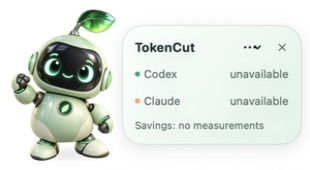
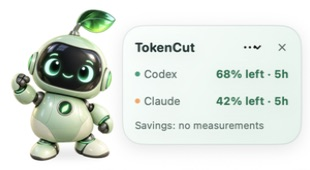
Fix Claude quota timing and show clear percentage windows

Changed region(s): [[0.6968, 0.5588, 0.929, 0.6176], [0.6968, 0.4118, 0.929, 0.4706]]

diff --git a/macos/Sources/TokenCutMenu/Pet.swift b/macos/Sources/TokenCutMenu/Pet.swift
@@ -5,6 +5,11 @@ struct QuotaWindow: Decodable, Identifiable {
     let id, label: String
     let usedPercent, remainingPercent: Double
     let windowMinutes, resetsAt: Double?
+    var shortLabel: String {
+        if windowMinutes == 300 { return "5h" }
+        if windowMinutes == 10080 { return "7d" }
+        return ""
+    }
 }
 struct QuotaProvider: Decodable, Identifiable {
     let provider, name, source, status, message: String
@@ -13,6 +18,17 @@ struct QuotaProvider: Decodable, Identifiable {
     let windows: [QuotaWindow]
     var id: String { provider }
     var tightest: QuotaWindow? { windows.min { $0.remainingPercent < $1.remainingPercent } }
+    var statusLabel: String {
+        if status == "loading" { return "Checking…" }
+        switch issue {
+        case "cli_not_signed_in", "adapter_unavailable": return "Connect"
+        case "cli_missing", "reader_missing": return "Set up"
+        case "no_windows": return "Not reported"
+        case "timeout": return "Retry"
+        case "reset_pending": return "Refreshing…"
+        default: return "Check limits"
+        }
+    }
 }
 struct QuotaEnvelope: Decodable { let providers: [QuotaProvider] }
 
@@ -62,14 +78,14 @@ struct PetView: View {
                             Text(provider == "codex" ? "Codex" : "Claude").foregroundStyle(mutedInk)
                             Spacer(minLength: 4)
                             if let quota = row?.tightest, row?.status == "ok" {
-                                Text("\(quota.remainingPercent.formatted(.number.precision(.fractionLength(0))))% left")
+                                Text("\(quota.remainingPercent.formatted(.number.precision(.fractionLength(0))))% left\(quota.shortLabel.isEmpty ? "" : " · " + quota.shortLabel)")
                                     .foregroundStyle(quota.remainingPercent <= 15 ? .orange : accent).monospacedDigit().bold()
                             } else {
-                                Text(row?.status == "loading" ? "…" : row?.issue == "cli_not_signed_in" ? "CLI not linked" : "unavailable").foregroundStyle(mutedInk)
+                                Text(row?.statusLabel ?? "Checking…").foregroundStyle(mutedInk)
                             }
                         }.font(.system(size: 11)).padding(.vertical, 2)
                     }.buttonStyle(.plain)
-                    .help("Remaining allowance in the most constrained window. Click for all windows and read times.")
+                    .help(row?.status == "ok" ? "Remaining allowance in the most constrained window. 5h: five hours; 7d: weekly. Click for all windows and read times." : row?.message ?? "Checking the account-limit connection.")
                 }
                 Text(savings).font(.system(size: 10)).foregroundStyle(mutedInk).lineLimit(1)
             }.frame(width: 154)
@@ -89,7 +105,7 @@ struct PetView: View {
         .accessibilityElement(children: .contain)
     }
     private var savings: String {
-        if model.error != nil { return "Text measurements unavailable" }
+        if model.error != nil { return "Open savings to reconnect" }
         if model.snapshot?.paused == true { return "Optimization paused" }
         guard let value = model.snapshot?.today?.net else { return "Savings: no measurements" }
         return "Text today: \(value >= 0 ? "↓" : "↑")\(compact(abs(value))) tokens"
@@ -137,6 +153,21 @@ struct QuotaDetails: View {
                     }
                     Text(provider.source).font(.caption2).foregroundStyle(.secondary)
                     if provider.provider == "claude", provider.status == "unavailable" {
+                        if ["cli_not_signed_in", "adapter_unavailable", "cli_missing"].contains(provider.issue ?? "") {
+                            Text("Connect the quota reader once. Your Claude Desktop session stays separate.")
+                                .font(.caption)
+                            HStack {
+                                Text("claude auth login --claudeai")
+                                    .font(.system(.caption, design: .monospaced)).textSelection(.enabled)
+                                Spacer()
+                                Button("Copy") {
+                                    NSPasteboard.general.clearContents()
+                                    NSPasteboard.general.setString("claude auth login --claudeai", forType: .string)
+                                }.help("Copy the Claude subscription sign-in command")
+                            }
+                            Text("Run in Terminal, finish signing in, then click Refresh limits.")
+                                .font(.caption2).foregroundStyle(.secondary)
+                        }
                         Link("View Claude account limits ↗", destination: URL(string: "https://claude.ai/settings/usage")!)
                             .font(.caption)
                     }

diff --git a/tests/test_usage.py b/tests/test_usage.py
@@ -127,6 +127,27 @@ def test_passed_reset_is_not_assumed_to_restore_limit():
     await_idle(collector)
     row = collector.snapshot()[0]
     assert row["status"] == "unavailable" and row["windows"] == []
+    assert row["issue"] == "reset_pending"
+
+
+@pytest.mark.parametrize(
+    "failure, issue",
+    [
+        (FileNotFoundError("private path"), "reader_missing"),
+        (TimeoutError("private data"), "timeout"),
+    ],
+)
+def test_missing_reader_and_timeout_have_actionable_private_diagnostics(failure, issue):
+    def fetch():
+        raise failure
+
+    collector = usage.UsageCollector({"claude": fetch})
+    collector.snapshot()
+    await_idle(collector)
+    row = collector.snapshot()[0]
+    assert row["issue"] == issue
+    assert row["windows"] == []
+    assert "private" not in json.dumps(row)
 
 
 def test_savings_snapshot_does_not_start_quota_probes(tmp_path, monkeypatch):
@@ -174,7 +195,8 @@ for line in sys.stdin:
     assert json.loads(log.read_text()) == ["initialize", "initialized", "account/rateLimits/read"]
 
 
-def test_claude_adapter_uses_cli_usage_without_cost_scan(tmp_path, monkeypatch):
+@pytest.mark.parametrize("elapsed", [0, 35])
+def test_claude_adapter_uses_cli_usage_without_cost_scan(tmp_path, monkeypatch, elapsed):
     log = tmp_path / "arguments.json"
     command = fake_executable(
         tmp_path,
@@ -186,6 +208,10 @@ print(json.dumps([{"provider": "claude", "usage": {"primary": {"usedPercent": 20
 """,
     )
     monkeypatch.setattr(usage, "executable", lambda name: command)
+    # Simulate a slow usage/status cycle without sleeping or making an AI call.
+    # It must still consume EOF after the old 30-second deadline has passed.
+    ticks = iter([0.0, 0.0])
+    monkeypatch.setattr(usage.time, "monotonic", lambda: next(ticks, float(elapsed)))
     assert usage.fetch_claude()[0]["remaining_percent"] == 80
     assert json.loads(log.read_text()) == [
         "usage",

diff --git a/src/tokencut/core/usage.py b/src/tokencut/core/usage.py
@@ -20,6 +20,9 @@ import time
 from pathlib import Path
 
 MAX_RESPONSE = 1024 * 1024
+# Claude's adapter can run a 20s usage probe, retry, then enrich with /status.
+# Bound the full cycle without cutting off a valid first-run reading at 30s.
+CLAUDE_QUOTA_TIMEOUT = 60
 
 CLAUDE_ISSUES = {
     "cli_missing": "The terminal Claude Code CLI was not found. Claude Desktop Code uses a separate bundled installation.",
@@ -272,6 +275,7 @@ def fetch_claude() -> list[dict]:
             "--json-only",
         ],
         environment,
+        timeout=CLAUDE_QUOTA_TIMEOUT,
     )
     entries = payload if isinstance(payload, list) else [payload]
     errors = [
@@ -355,6 +359,7 @@ class UsageCollector:
             ):
                 row.update(
                     status="unavailable",
+                    issue="reset_pending",
                     windows=[],
                     message="Reset time has passed; waiting for a fresh reading.",
                 )
@@ -375,6 +380,7 @@ class UsageCollector:
             message = str(exc)
         except FileNotFoundError:
             windows, status = [], "unavailable"
+            issue = "reader_missing"
             message = (
                 "Codex CLI is not installed."
                 if provider == "codex"
@@ -382,6 +388,7 @@ class UsageCollector:
             )
         except (TimeoutError, subprocess.TimeoutExpired):
             windows, status = [], "unavailable"
+            issue = "timeout"
             message = "The quota reader timed out. Try refreshing later."
         except Exception:
             windows, status = [], "unavailable"

diff --git a/docs/guide.md b/docs/guide.md
@@ -261,6 +261,16 @@ adapter's terminal CLI source. A missing terminal login does not mean the Code
 tab in Claude Desktop is signed out. ChatGPT chat and Antigravity quotas are not
 connected. Unavailable data is not shown as a full allowance.
 
+The pet labels the selected window (`5h` or `7d`) beside its remaining percentage.
+When readings are missing, it shows an action such as **Connect**, **Set up** or
+**Retry**. Click the provider for its specific cause. **Connect** for Claude means
+the quota reader needs a connection, not that Claude Desktop is signed out.
+In Terminal, run `claude auth login --claudeai`, complete the normal subscription
+sign-in, then click **Refresh limits**. The panel can copy this command for you.
+This does not change the active Claude Desktop session. No model call is required.
+Allow up to one minute for the terminal reader's usage/status cycle, especially
+after first sign-in. It runs in the background, so the panel remains responsive.
+
 ## Storage and measurements
 
 `TOKENCUT_CACHE_DIR` selects client storage (default `~/.tokencut`).

diff --git a/README.md b/README.md
@@ -108,7 +108,11 @@ memory and available account-limit readings. English UI. Local storage. No extra
 *Actual macOS app with an authored transcript fixture. Compare before copying;
 preview counts are not recorded savings. [Log preparation screenshot →](assets/macos-prepare.png)*
 
-<p align="center"><img src="assets/macos-pet.png" width="310" alt="The actual draggable TokenCut pet and HUD, shown without account readings."></p>
+<p align="center"><img src="assets/macos-pet.png" width="310" alt="Native macOS TokenCut pet with example five-hour balances: Codex 68% left and Claude 42% left."></p>
+
+*Example balances: **Codex 68% left · Claude 42% left** in their five-hour windows.
+The pet shows live account readings when connected. These percentages are
+remaining allowance, not savings caused by TokenCut.*
 
 The animation above features the app's bundled artwork. The app uses subtle hover
 motion, not a continuously running 3D renderer. The CLI and MCP do not require the pet.
